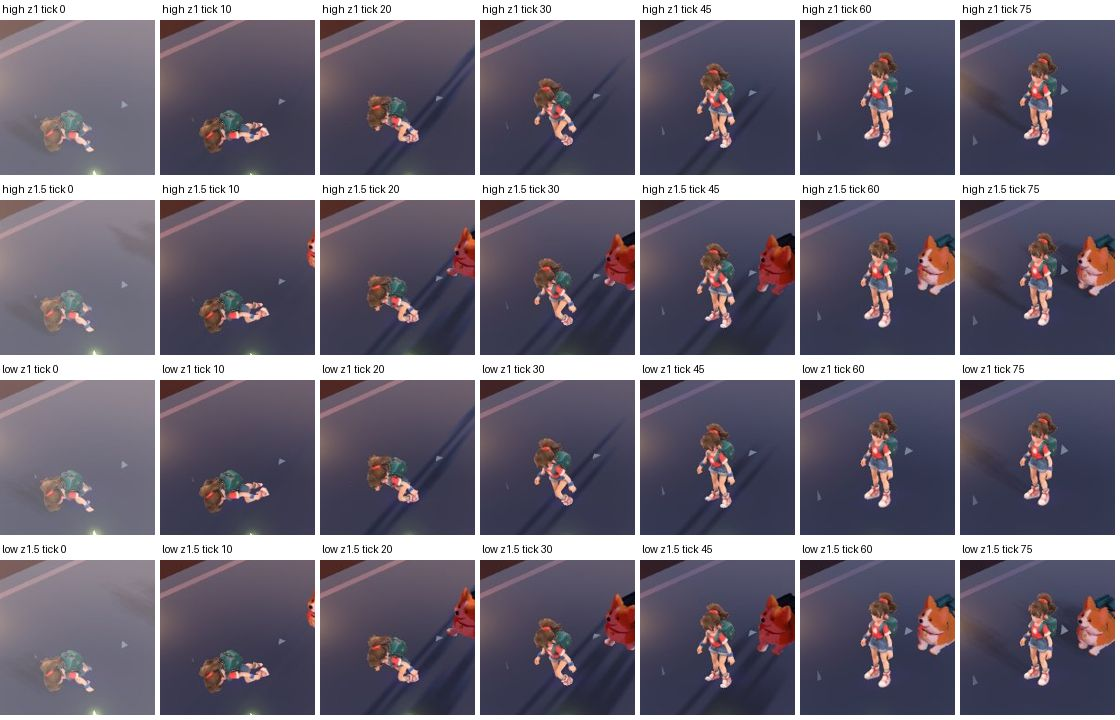
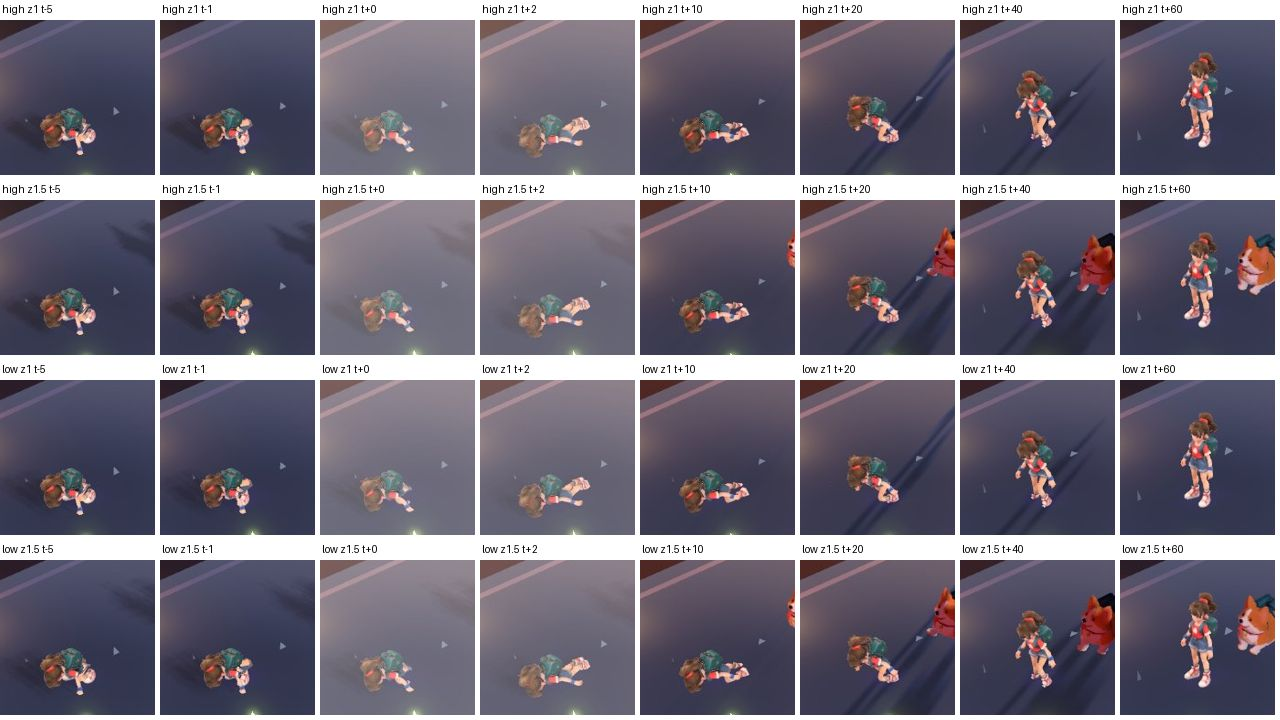
Capture L9 crawl transition boundary

diff --git a/docs/reports/s227-l9polish/README.md b/docs/reports/s227-l9polish/README.md
@@ -7,7 +7,7 @@
 - **Crash:** the same APC lands on the far shoulder and burns beside the courier; the infected school bus is hidden when the crash starts. The image is dark and the fire masks part of the vehicle, but its APC silhouette and wheels are visible. The shoulder placement replaces the previous wreck position inside the far bank, which was hidden from the camera.
 - **Crawl and stand — open P1:** the courier crawls with empty hands and eventually stands, but frame-by-frame review showed that the shared get-up clip first snaps her onto her back before she rises. An L9-only variant now mirrors the existing clip's pelvis roll so its opening pose matches the face-down crawl; weapon stow remains active through the transition. The new transition has not yet been visually reviewed, so the sheet still shows the previously captured defect and the goal remains open pending HIGH/LOW captures at zooms 1 and 1.5.
 
-A subsequent Scene Lab fixture forced the real crash approach and allowed the automatic crawl to finish. It captured every tick from the start of the rise through tick 75 at HIGH and LOW, zoom 1 and 1.5. The courier stays face down and rises without an observable back flip in those captures. [Selected frames](stand-up.jpg) show the four runs; full frames are in local `test-results/stand-{high,low}-{1,1.5}`. This fixture did not capture the last crawl tick before the switch or prove weapon stow and restored control in a native playthrough, so the transition remains open.
+A subsequent Scene Lab fixture forced the real crash approach and allowed the automatic crawl to finish. It captured every tick from the start of the rise through tick 75 at HIGH and LOW, zoom 1 and 1.5. The courier stays face down and rises without an observable back flip in those captures. [Selected frames](stand-up.jpg) show the four runs; full frames are in local `test-results/stand-{high,low}-{1,1.5}`. A second set captures ten ticks before the switch through 75 ticks after it, at each tier and zoom, with a fire axe equipped. The body remains face down at the switch. In the HIGH zoom 1.5 fixture, a Scene Lab run command after phase done moved the courier 3.13 m in 45 ticks. These are fixture observations; a native playthrough and a close ground-contact review are still needed to establish weapon presentation and absence of floating or sinking.
 
 The time box ended before the stand-up defect could be repaired and verified. The L9 polish goal is therefore **not complete**, despite the automated gates below passing.
 
